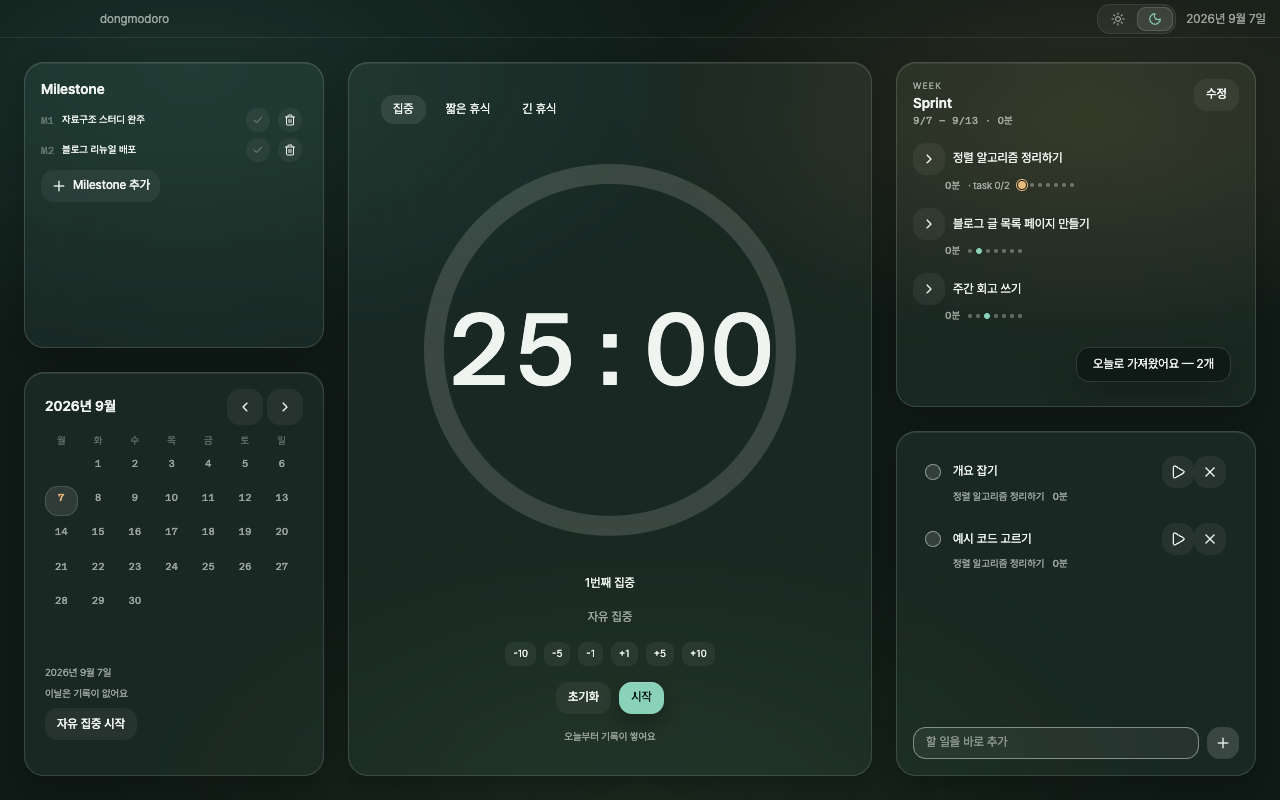
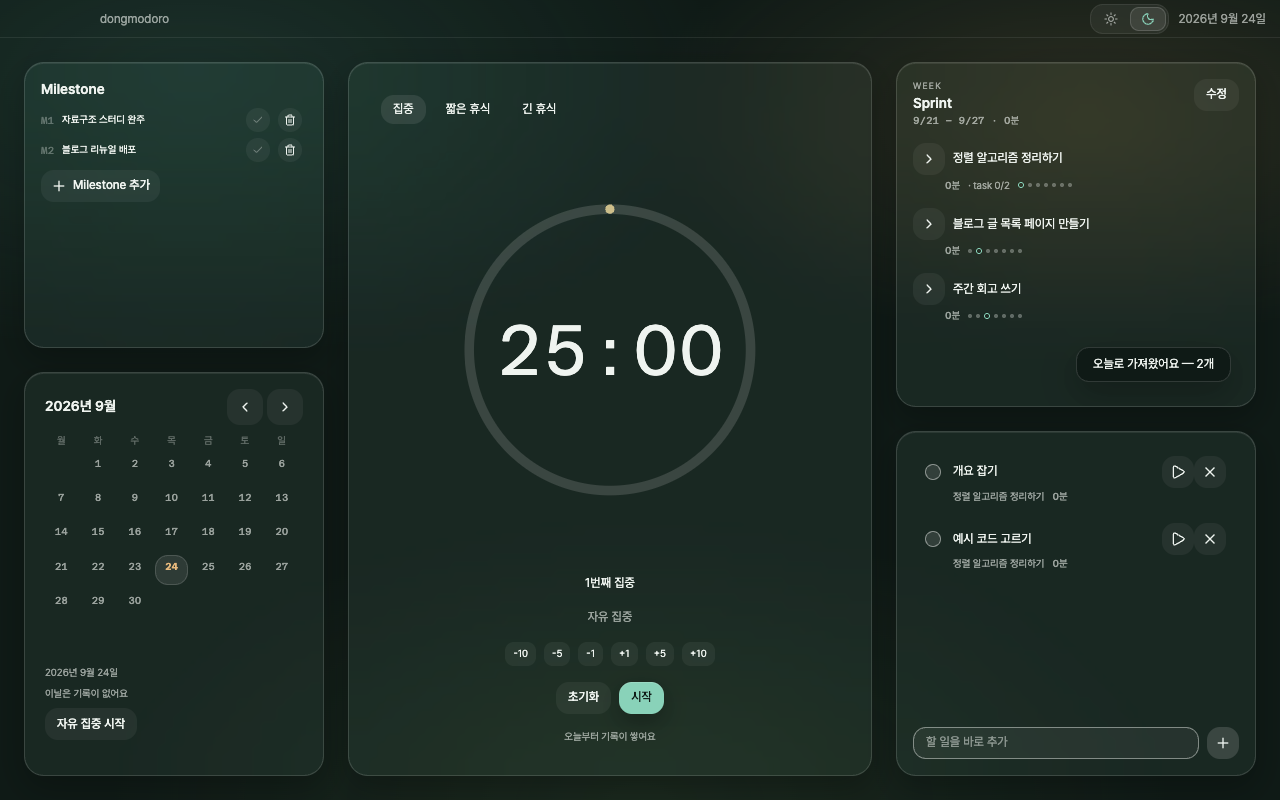
feat(timer): lighten the dial so it stops dominating the screen (#96)
## What this changes

Feedback after #94 was that the timer is too big. Measuring the built
app on
a fresh profile showed why: on the default 1280x800 window the dial is
already at its 400px cap, the digits are 102px (8.5x the session label
right
under them) and the ring is a 20px band. The problem is weight as much
as
size.

| | Before | After |
|---|---|---|
| Dial cap (`--timer-dial-max`) | 7.14em (~400px) | **5.71em (~320px)**
|
| Digits | `25.45cqmin`, weight 400 | **`22cqmin`, `--weight-light`
(300)** |
| Ring stroke (viewBox 200) | 10 (5%) | **6 (3%)** |

The single-curve structure from design-system ADR-012 stays: the side is
still `clamp(min, min(100cqw, 100cqh), max)` and everything derives from
it.

## Measured (built app, temporary profile)

| Window | Side | Digits | Ring | Clipped |
|---|---|---|---|---|
| 720x640 (floor) | 222px (was 222) | 48.8px (was 56.5) | 6.7px | no |
| 1280x800 (default) | **320px** (was 400) | **70.3px** (was 101.8) |
9.6px | no |
| 1728x949 (maximized) | **320px** (was 400) | **70.3px** (was 101.8) |
9.6px | no |
| 1600x660 (wide, short) | 279px (was 279) | 61.4px (was 71.1) | 8.4px |
no |

## Decisions and trade-offs

- Recorded as design-system ADR-013; ADR-012 is marked superseded in
part
(sections 2-4). Four options were compared side by side; the rejected
ones
  are listed in the ADR.
- At the floor the digits are now ~49px, below `--text-display` (56px).
That
[…]

diff --git a/src/renderer/shared/styles/tokens.css b/src/renderer/shared/styles/tokens.css
@@ -36,6 +36,7 @@ body {
   --weight-regular: 400;
   --weight-semibold: 600;
   --weight-bold: 700;
+  --weight-light: 300; /* 타이머 숫자 전용 — design-system ADR-013 §3 */
 
   --tracking-normal: 0;
   --tracking-wide: 0.05em;
@@ -68,11 +69,11 @@ body {
   --focus-ring-offset: 2px;
   --target-min: 24px;
 
-  /* 타이머 다이얼 (design-system ADR-012) — 길이인데 em 인 유일한 예외다.
+  /* 타이머 다이얼 (design-system ADR-012 · ADR-013) — 길이인데 em 인 유일한 예외다.
      --text-display 에 대해 해석되므로 루트 확대가 하한·상한을 함께 민다
      (ADR-007 §3 이 지키려던 성질). 다른 길이 토큰의 근거로 쓰지 않는다. */
   --timer-dial-min: 3.93em; /* ≈220px — design-system ADR-011 §1 이 미디엄 하한에 쓴 값 */
-  --timer-dial-max: 7.14em; /* ≈400px */
+  --timer-dial-max: 5.71em; /* ≈320px — design-system ADR-013 §1: 400 → 320 */
 
   /* ── 다크 = 기본 테마 ──────────────────────────── */
 

diff --git a/src/renderer/shared/styles/global.css b/src/renderer/shared/styles/global.css
@@ -258,11 +258,16 @@ main {
   justify-content: center;
 }
 
-/* 56 / 220 = 25.45% — 하한에서 정확히 --text-display 다 (ADR-012 §3). 숫자에 독립적인
-   clamp 를 또 두지 않는 이유가 이것이다: 곡선이 둘이면 어긋나는 구간이 생긴다. */
+/* 한 변의 22% (design-system ADR-013 §2). 숫자에 독립적인 clamp 를 또 두지 않는 이유는
+   ADR-012 §3 그대로다: 곡선이 둘이면 어긋나는 구간이 생긴다. 비율만 25.45% 에서 내렸고,
+   그 대가로 하한에서 숫자가 --text-display(56px) 가 아니라 ≈49px 이 된다.
+
+   굵기를 --weight-light 로 두는 것이 크기를 줄인 것보다 체감이 크다 — 이 화면에서 가장
+   큰 글자가 가장 굵기까지 하면 다른 카드를 전부 누른다 (ADR-013 Context). */
 .timer-digits {
   font-family: var(--font-mono);
-  font-size: 25.45cqmin;
+  font-size: 22cqmin;
+  font-weight: var(--weight-light);
   font-variant-numeric: tabular-nums;
   line-height: 1;
   color: var(--ink);

diff --git a/src/renderer/features/timer/TimerCard.tsx b/src/renderer/features/timer/TimerCard.tsx
@@ -16,6 +16,8 @@ const ADJUST_CHIPS = [-10, -5, -1, 1, 5, 10]
 
 const RING_RADIUS = 88
 const RING_CIRCUMFERENCE = 2 * Math.PI * RING_RADIUS
+/** viewBox 200 기준 — 지름의 3% (design-system ADR-013 §4). 한 변을 따라 함께 커진다. */
+const RING_STROKE = 6
 
 function formatMmSs(totalSec: number): string {
   const clamped = Math.max(0, totalSec)
@@ -94,7 +96,7 @@ export function TimerCard() {
               r={RING_RADIUS}
               fill="none"
               stroke="var(--glass-border)"
-              strokeWidth="10"
+              strokeWidth={RING_STROKE}
             />
             <circle
               cx="100"
@@ -102,7 +104,7 @@ export function TimerCard() {
               r={RING_RADIUS}
               fill="none"
               stroke="url(#timer-ring-gradient)"
-              strokeWidth="10"
+              strokeWidth={RING_STROKE}
               strokeLinecap="round"
               strokeDasharray={RING_CIRCUMFERENCE}
               strokeDashoffset={dashOffset}

diff --git a/docs/design-system/decisions/adr-013-lighter-timer-dial.md b/docs/design-system/decisions/adr-013-lighter-timer-dial.md
@@ -1,0 +1,103 @@
+# ADR-013 (design-system): 타이머 다이얼의 상한을 낮추고, 숫자와 링을 가볍게 한다
+
+- 상태: accepted (2026-09-24)
+- Supersedes: [design-system ADR-012](./adr-012-fluid-timer-dial.md) **§2 의 상한값**(400px) ·
+  **§3 의 비율**(25.45%) · **§4 의 굵기**(10). §1(크기 기준은 다이얼 한 변, `min(가로, 세로)`)과
+  §5(창 세로 하한 640px)는 그대로 유효
+- 관련 문서: [tokens.md §2.2·§2.3·§9](../tokens.md)
+
+## Context
+
+ADR-012 로 다이얼이 칸에 비례해 커지게 된 뒤 "타이머가 너무 크다"는 피드백이 나왔다.
+빌드 산출물을 임시 프로필로 띄워 실측하면 원인은 두 가지다.
+
+| 무엇 | 값 (기본 창 1280×800) | 비교 |
+|---|---|---|
+| 다이얼 한 변 | **400px — 이미 상한** | ADR-012 §2 가 "기본 창이 상한에 정확히 닿는 값"으로 정했다. 대부분의 사용자는 늘 최대 크기를 본다 |
+| 숫자 | **102px**, 굵기 400 | 바로 아래 세션 라벨(12px)의 8.5배, 카드 제목(14px)의 7배 |
+| 링 굵기 | **20px** | 지름의 5% 라 링이 굵은 띠로 읽힌다 |
+
+크기보다 **무게**가 문제다. 화면에서 가장 큰 글자가 굵기까지 갖추고 20px 띠에 둘러싸여,
+Milestone·Sprint·오늘 카드를 전부 누른다. 상한만 낮추면(대안 A) 굵은 숫자와 띠는 그대로
+남고, 고정 크기로 되돌리면(대안 D) 최대화 시 카드가 비어 ADR-012 가 풀던 문제로 돌아간다.
+
+## Decision
+
+### 1. 상한을 400px → 320px 로 낮춘다
+
+```
+--timer-dial-max: 5.71em;   /* ≈320px, was 7.14em */
+```
+
+한 변 공식(ADR-012 §1)은 그대로다. 창이 작으면 여전히 세로 여유를 따라 줄고, 기본 창과
+그보다 큰 창은 320px 에 멈춘다. 단위가 `em` 인 이유도 ADR-012 §2 그대로다.
+
+### 2. 숫자 비율을 25.45% → 22% 로 내린다
+
+```
+.timer-digits { font-size: 22cqmin; }
+```
+
+숫자가 한 변에서 파생된다는 ADR-012 §3 의 구조는 유지한다 — 비율만 바꾼다. 곡선이
+하나라 링과 숫자가 어긋나는 구간이 여전히 없다.
+
+**대가:** 하한(220px)에서 숫자가 `--text-display`(56px) 가 아니라 ≈49px 이 된다.
+ADR-012 §3 이 정한 "하한에서 정확히 `--text-display`" 는 더 성립하지 않는다.
+`--text-display` 는 이제 **다이얼 하한(`--timer-dial-min`)을 `em` 으로 풀기 위한 기준값**
+으로만 남는다. 49px 도 이 화면의 다른 어떤 글자보다 세 배 이상 크므로, 가장 작은 창에서
+숫자가 읽히지 않을 위험은 없다.
+
+### 3. 숫자 굵기를 300 으로 두고, 이를 위해 `--weight-light` 를 추가한다
+
+```
+--weight-light: 300;   /* 타이머 숫자 전용 */
+```
+
+tokens.md §2.3 은 "3단계 외 굵기 추가 금지" 다. 이 결정은 그 규칙에 **예외 하나**를 낸다.
+
+- 근거: 이 화면에서 가장 큰 글자는 굵기를 낮춰야 비로소 다른 카드와 같은 무게가 된다.
+  크기를 더 줄이는 쪽으로 같은 효과를 내면 최대화 창에서 다이얼이 카드 안에서 떠 버린다.
+- 범위: **타이머 숫자 전용** 이다. 본문·제목에 쓰지 않는다. 300 이 12~14px 에서 쓰이면
+  대비와 판독성이 떨어진다.
+- `--weight-bold` 의 용도 칸에 있던 "타이머 숫자" 는 사실과 달라서(구현은 400 이었다)
+  함께 고친다.
+
+Azeret Mono 는 가변 폰트(100–900)로 번들되므로 추가 파일이 없다.
+
+### 4. 링 굵기를 viewBox 기준 10 → 6 (지름의 3%)
+
+굵기가 지름에 비례한다는 ADR-012 §4 의 원리는 유지한다 — 비율만 바꾼다. 320px 에서
+9.6px, 하한 220px 에서 6.6px 이다.
+
+## 실측 (2026-09-24, 빌드 산출물 · 임시 프로필)
+
+`scrollHeight = clientHeight` 는 타이머 카드가 내용을 잘라내지 않았다는 뜻이다.
+
+| 창 크기 | 다이얼 칸 (가로×세로) | 한 변 | 숫자 | 링 | 크기를 정한 것 | 잘림 |
+|---|---|---|---|---|---|---|
+| 720×640 (창 하한) | 222×259 | **222px** (was 222) | 48.8px (was 56.5) | 6.7px | 하한 | 없음 (552 = 552) |
+| 1280×800 (기본) | 458×419 | **320px** (was 400) | 70.3px (was 101.8) | 9.6px | 상한 | 없음 (712 = 712) |
+| 1728×949 (최대화) | 906×568 | **320px** (was 400) | 70.3px (was 101.8) | 9.6px | 상한 | 없음 (861 = 861) |
+| 1600×660 (넓고 낮음) | 778×279 | **279px** (was 279) | 61.4px (was 71.1) | 8.4px | 세로 여유 | 없음 (572 = 572) |
+
+## 검토한 대안
+
+비교 목업에서 네 안을 같은 칸 실측값으로 나란히 놓고 골랐다.
+
+| 안 | 내용 | 기본 창 (한 변 / 숫자) | 기각 이유 |
+|---|---|---|---|
+| A | 상한만 280px | 280 / 71 | 1024px 창부터 곧바로 상한이라 창 크기에 거의 반응하지 않는다. 굵기·띠는 그대로 |
+| B | 칸의 70% 만, 최대 340px | 293 / 75 | 작은 창에서 사실상 하한에 붙고, 최대화 시 숫자 87px 로 여전히 크다 |
+| **C** | **상한 320px + 숫자 22%·300 + 링 3%** | **320 / 70** | **채택** |
+| D | 240px 에 거의 고정 | 240 / 61 | 최대화 시 카드가 비어 ADR-012 이전으로 돌아간다 |
+
+## Consequences
+
+- (+) 기본 창에서 숫자가 102 → 70px, 링이 20 → 9.6px. 크기보다 무게가 더 많이 준다.
+- (+) 창에 비례해 커지는 ADR-012 §1 의 구조는 그대로라, 낮은 창에서 잘리는 것은 여전히
+  다이얼뿐이다.
+- (−) `--text-display` 가 렌더되는 자리가 완전히 사라지고, 다이얼 하한을 푸는 기준값으로만
+  남는다. 이 토큰 이름을 보고 "타이머 숫자는 56px" 이라고 읽으면 틀린다 — tokens.md §2.2 의
+  용도 칸이 이를 적는다.
+- (−) 굵기 3단계 규칙에 예외가 생긴다. "여기도 300 이던데" 를 본문 굵기의 근거로 쓰지 않는다.
+- (−) 단위 테스트로는 볼 수 없다(jsdom 에 레이아웃이 없다). 검증은 여전히 실제 창 실측이다.

diff --git a/docs/design-system/decisions/adr-012-fluid-timer-dial.md b/docs/design-system/decisions/adr-012-fluid-timer-dial.md
@@ -1,6 +1,7 @@
 # ADR-012 (design-system): 타이머 다이얼을 칸 크기에 비례시키고, 크기의 기준을 글자에서 다이얼로 옮긴다
 
 - 상태: accepted (2026-08-18)
+- Superseded in part by: [design-system ADR-013](./adr-013-lighter-timer-dial.md) — §2 의 상한값(400 → 320px), §3 의 비율(25.45% → 22%), §4 의 굵기(10 → 6). §1·§5 는 유효
 - Supersedes: [design-system ADR-007](./adr-007-font-size-rem.md) §3(링 지름을 `em` 으로 묶는다)의 **인과 방향**. §1·§2(폰트만 rem, 루트 62.5%)와 §3 의 목적(루트 확대가 링에 닿아야 한다)은 유효
 - 관련 문서: [tokens.md §2.2·§9](../tokens.md) · [design-system ADR-009](./adr-009-type-scale-respacing.md) ·
   [design-system ADR-011 §1](./adr-011-medium-range-revision.md) · [app-shell ux-spec §2](../../features/app-shell/ux-spec.md)
